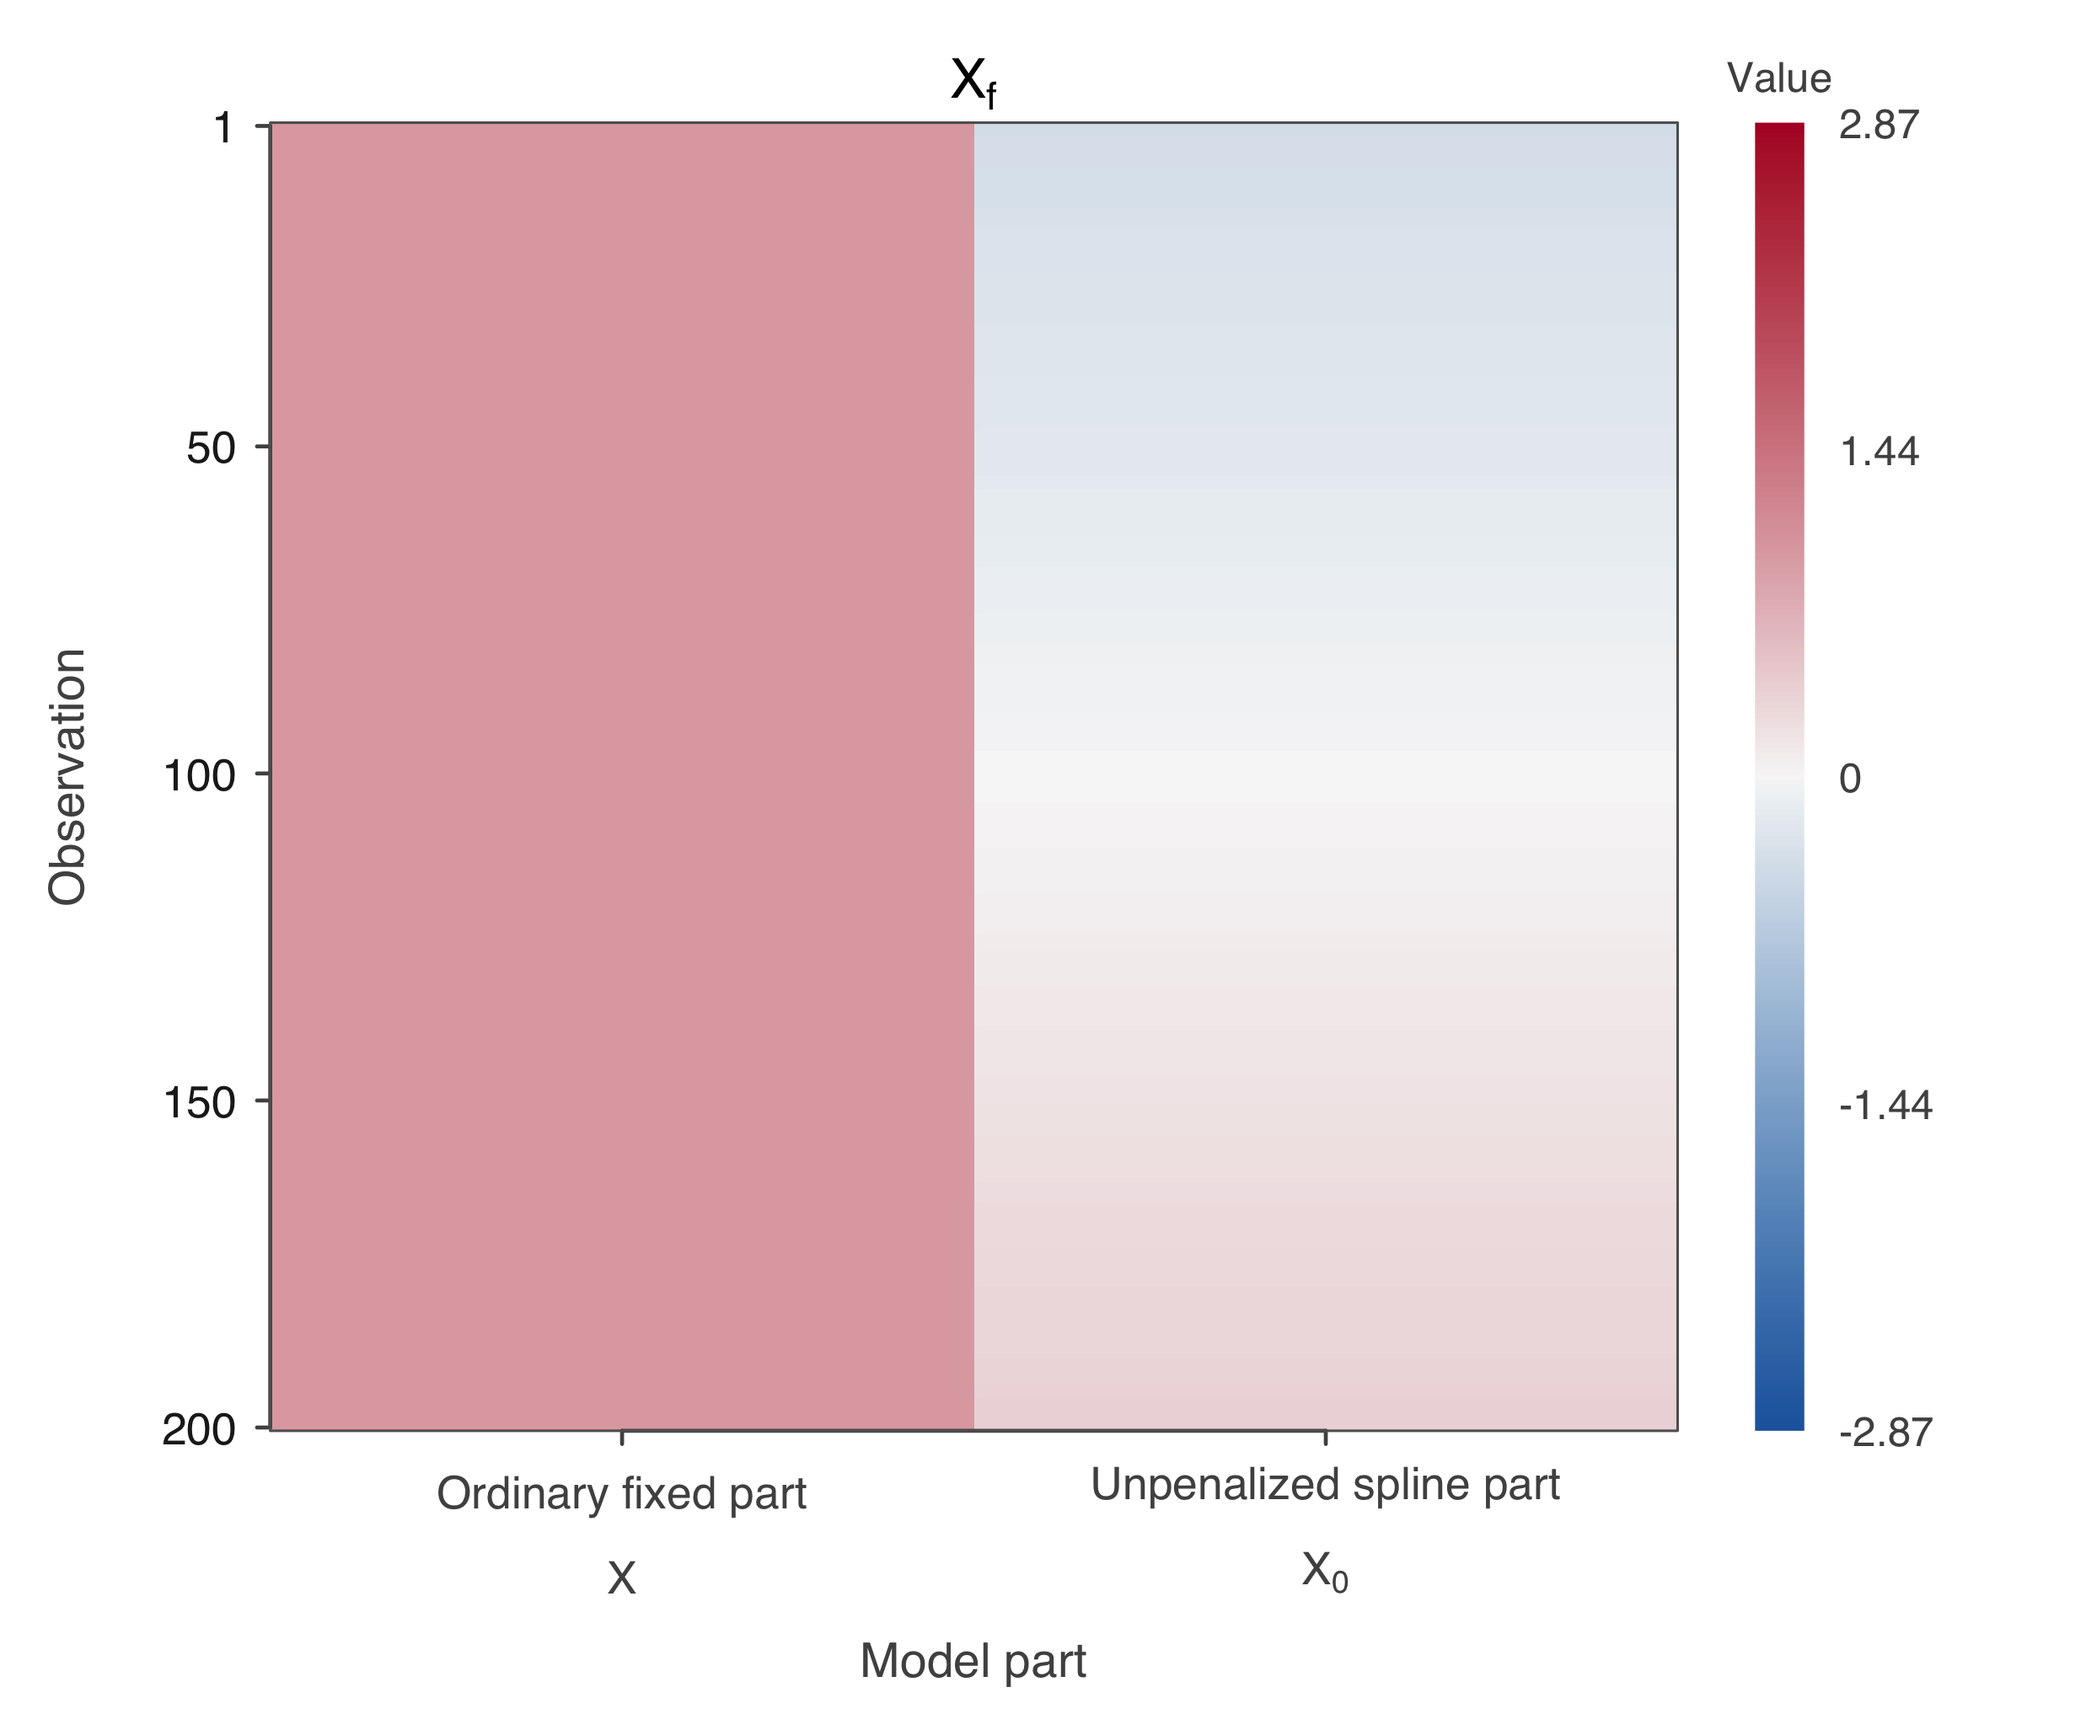
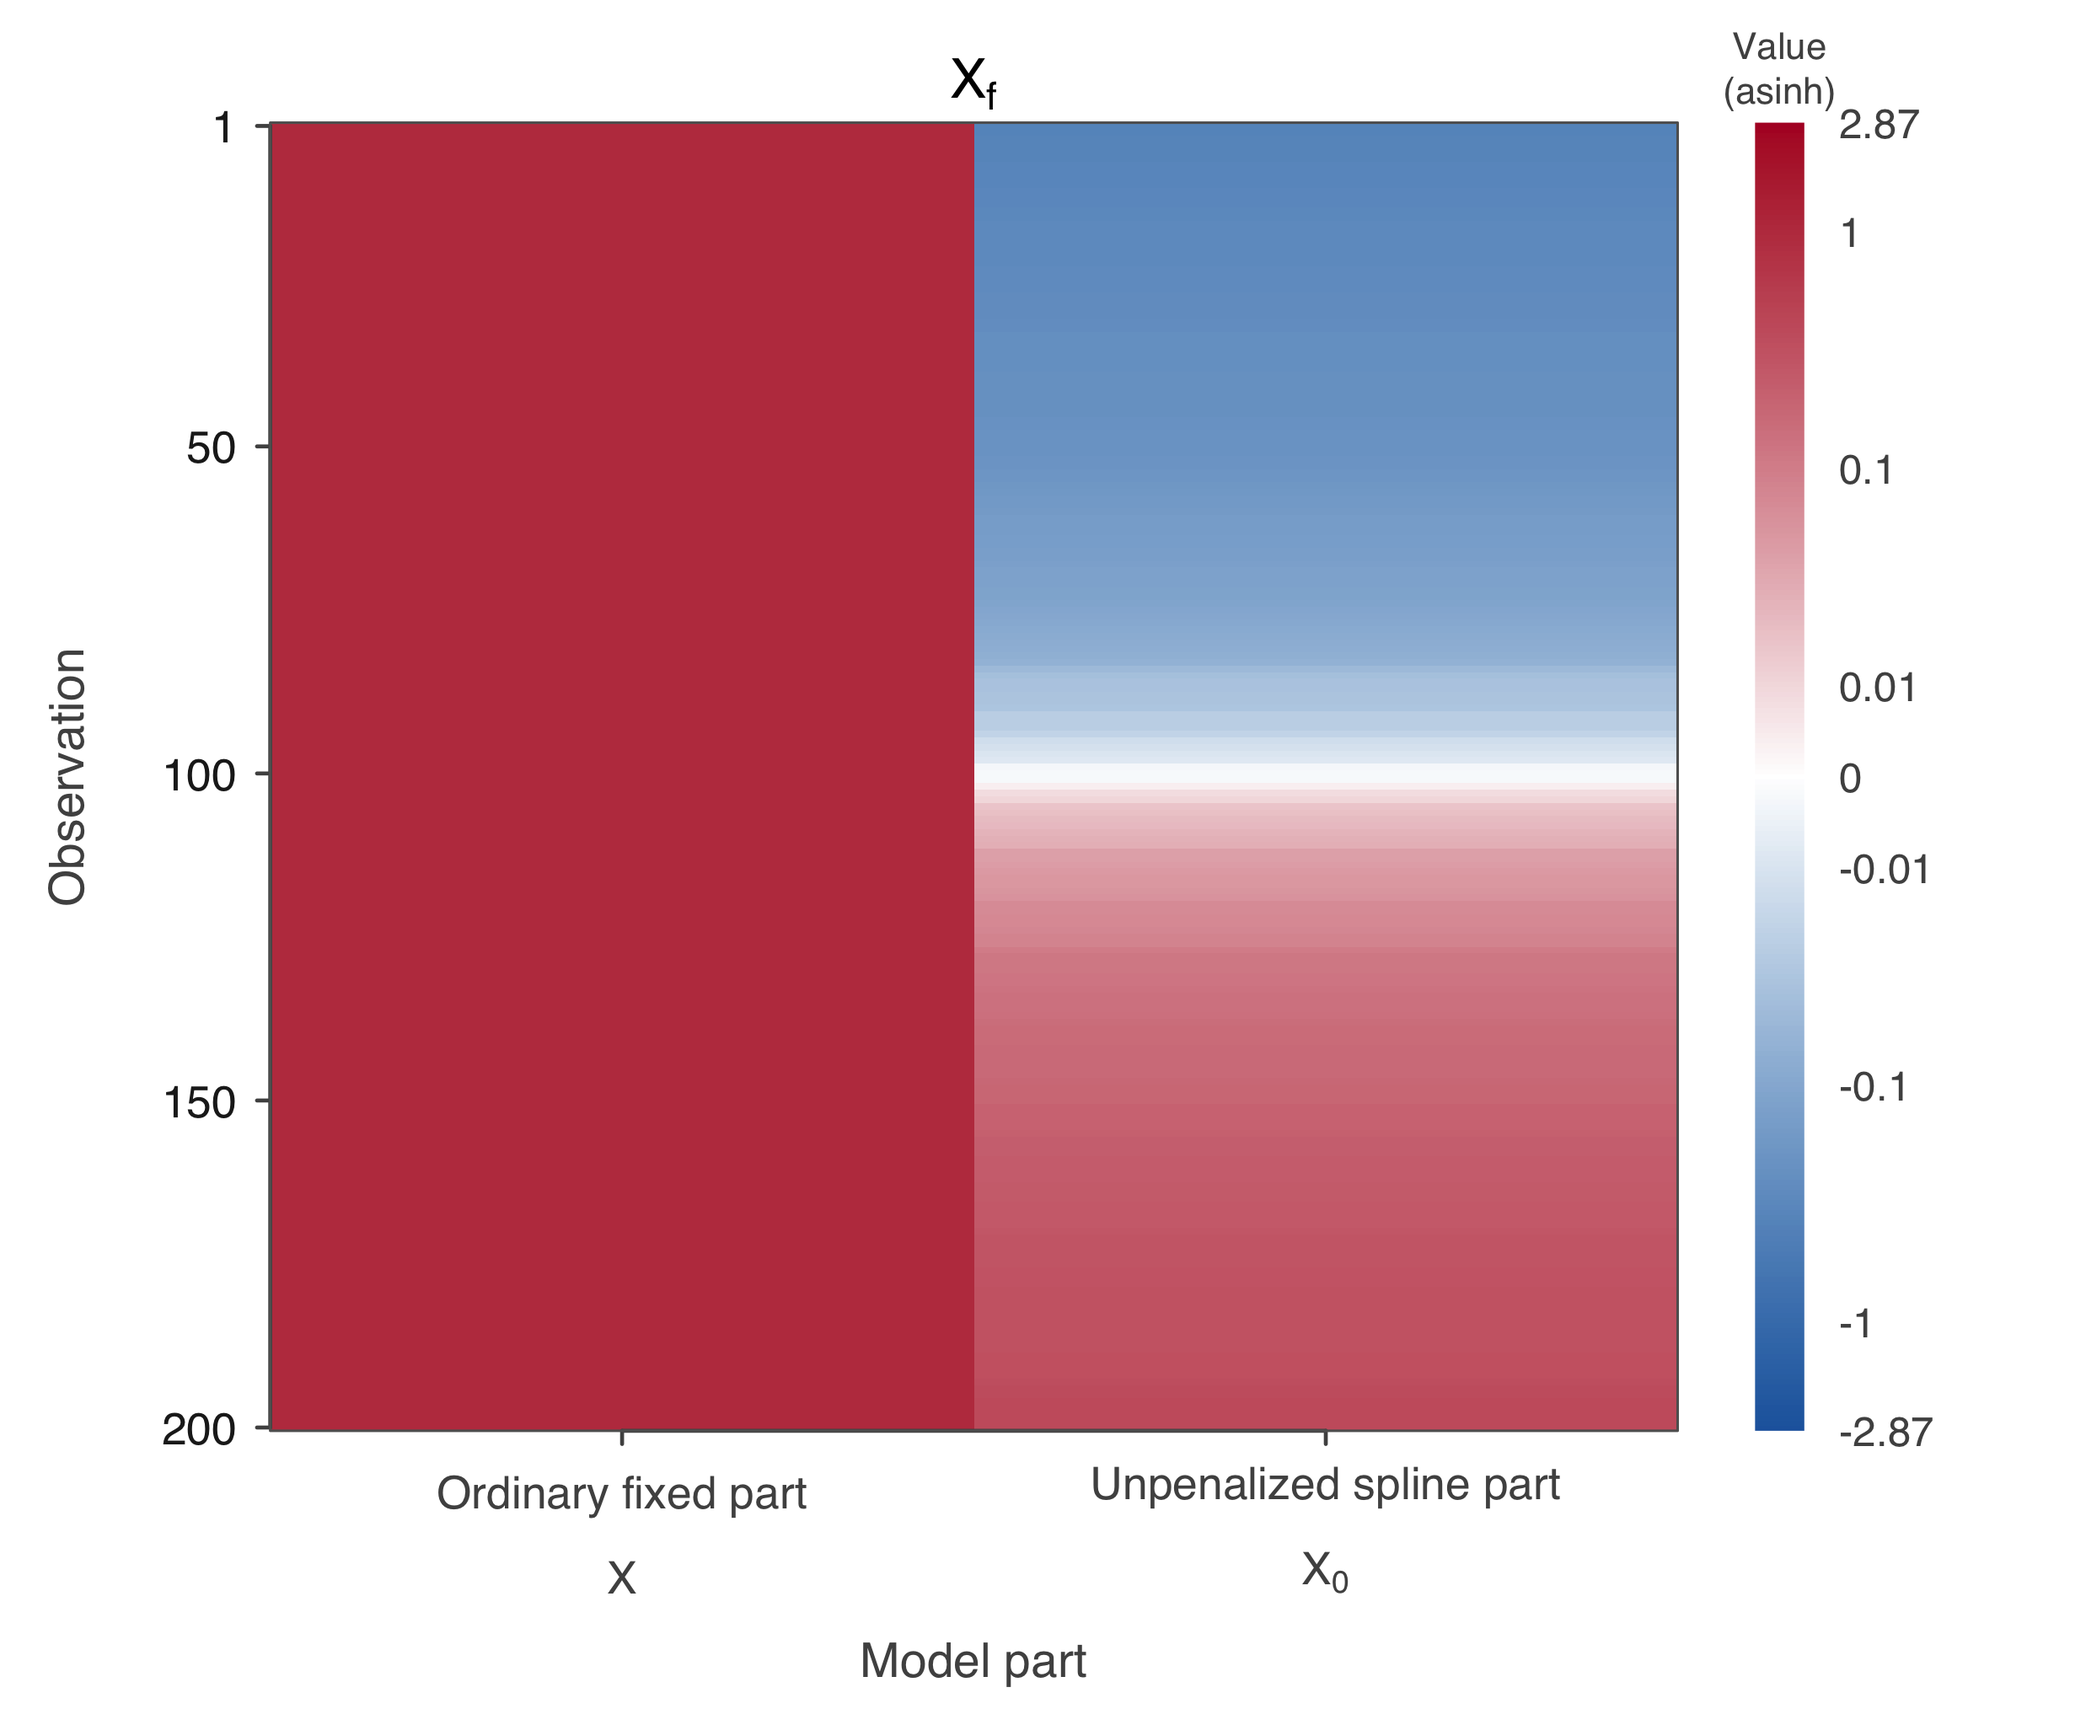
Improve fixed-design heatmap contrast with a shared nonlinear scale

diff --git a/assets/FITTING_MATRICES.md b/assets/FITTING_MATRICES.md
@@ -2,7 +2,7 @@
 
 These plots use Julia's `uniform_k8` example: 200 observations and a raw spline basis of size `k = 8`. After centering, the spline has six penalized directions and one unpenalized straight trend. The plotted entries are computed before REML fitting.
 
-Colour represents the numerical entry value: red is positive, blue is negative, and white is zero or near zero. `Xf` and `Xr` share the same colour limits; `loading` and `Zr` share the same positive colour scale.
+Colour represents the numerical entry value: red is positive, blue is negative, and white is zero or near zero. `Xf` and `Xr` share the same nonlinear colour scale (`asinh(value / 0.01)`) to make small nonzero entries easier to see; their colourbar labels show the original values. `loading` and `Zr` share the same positive colour scale.
 
 ## Xf: fixed model parts before rotation
 
